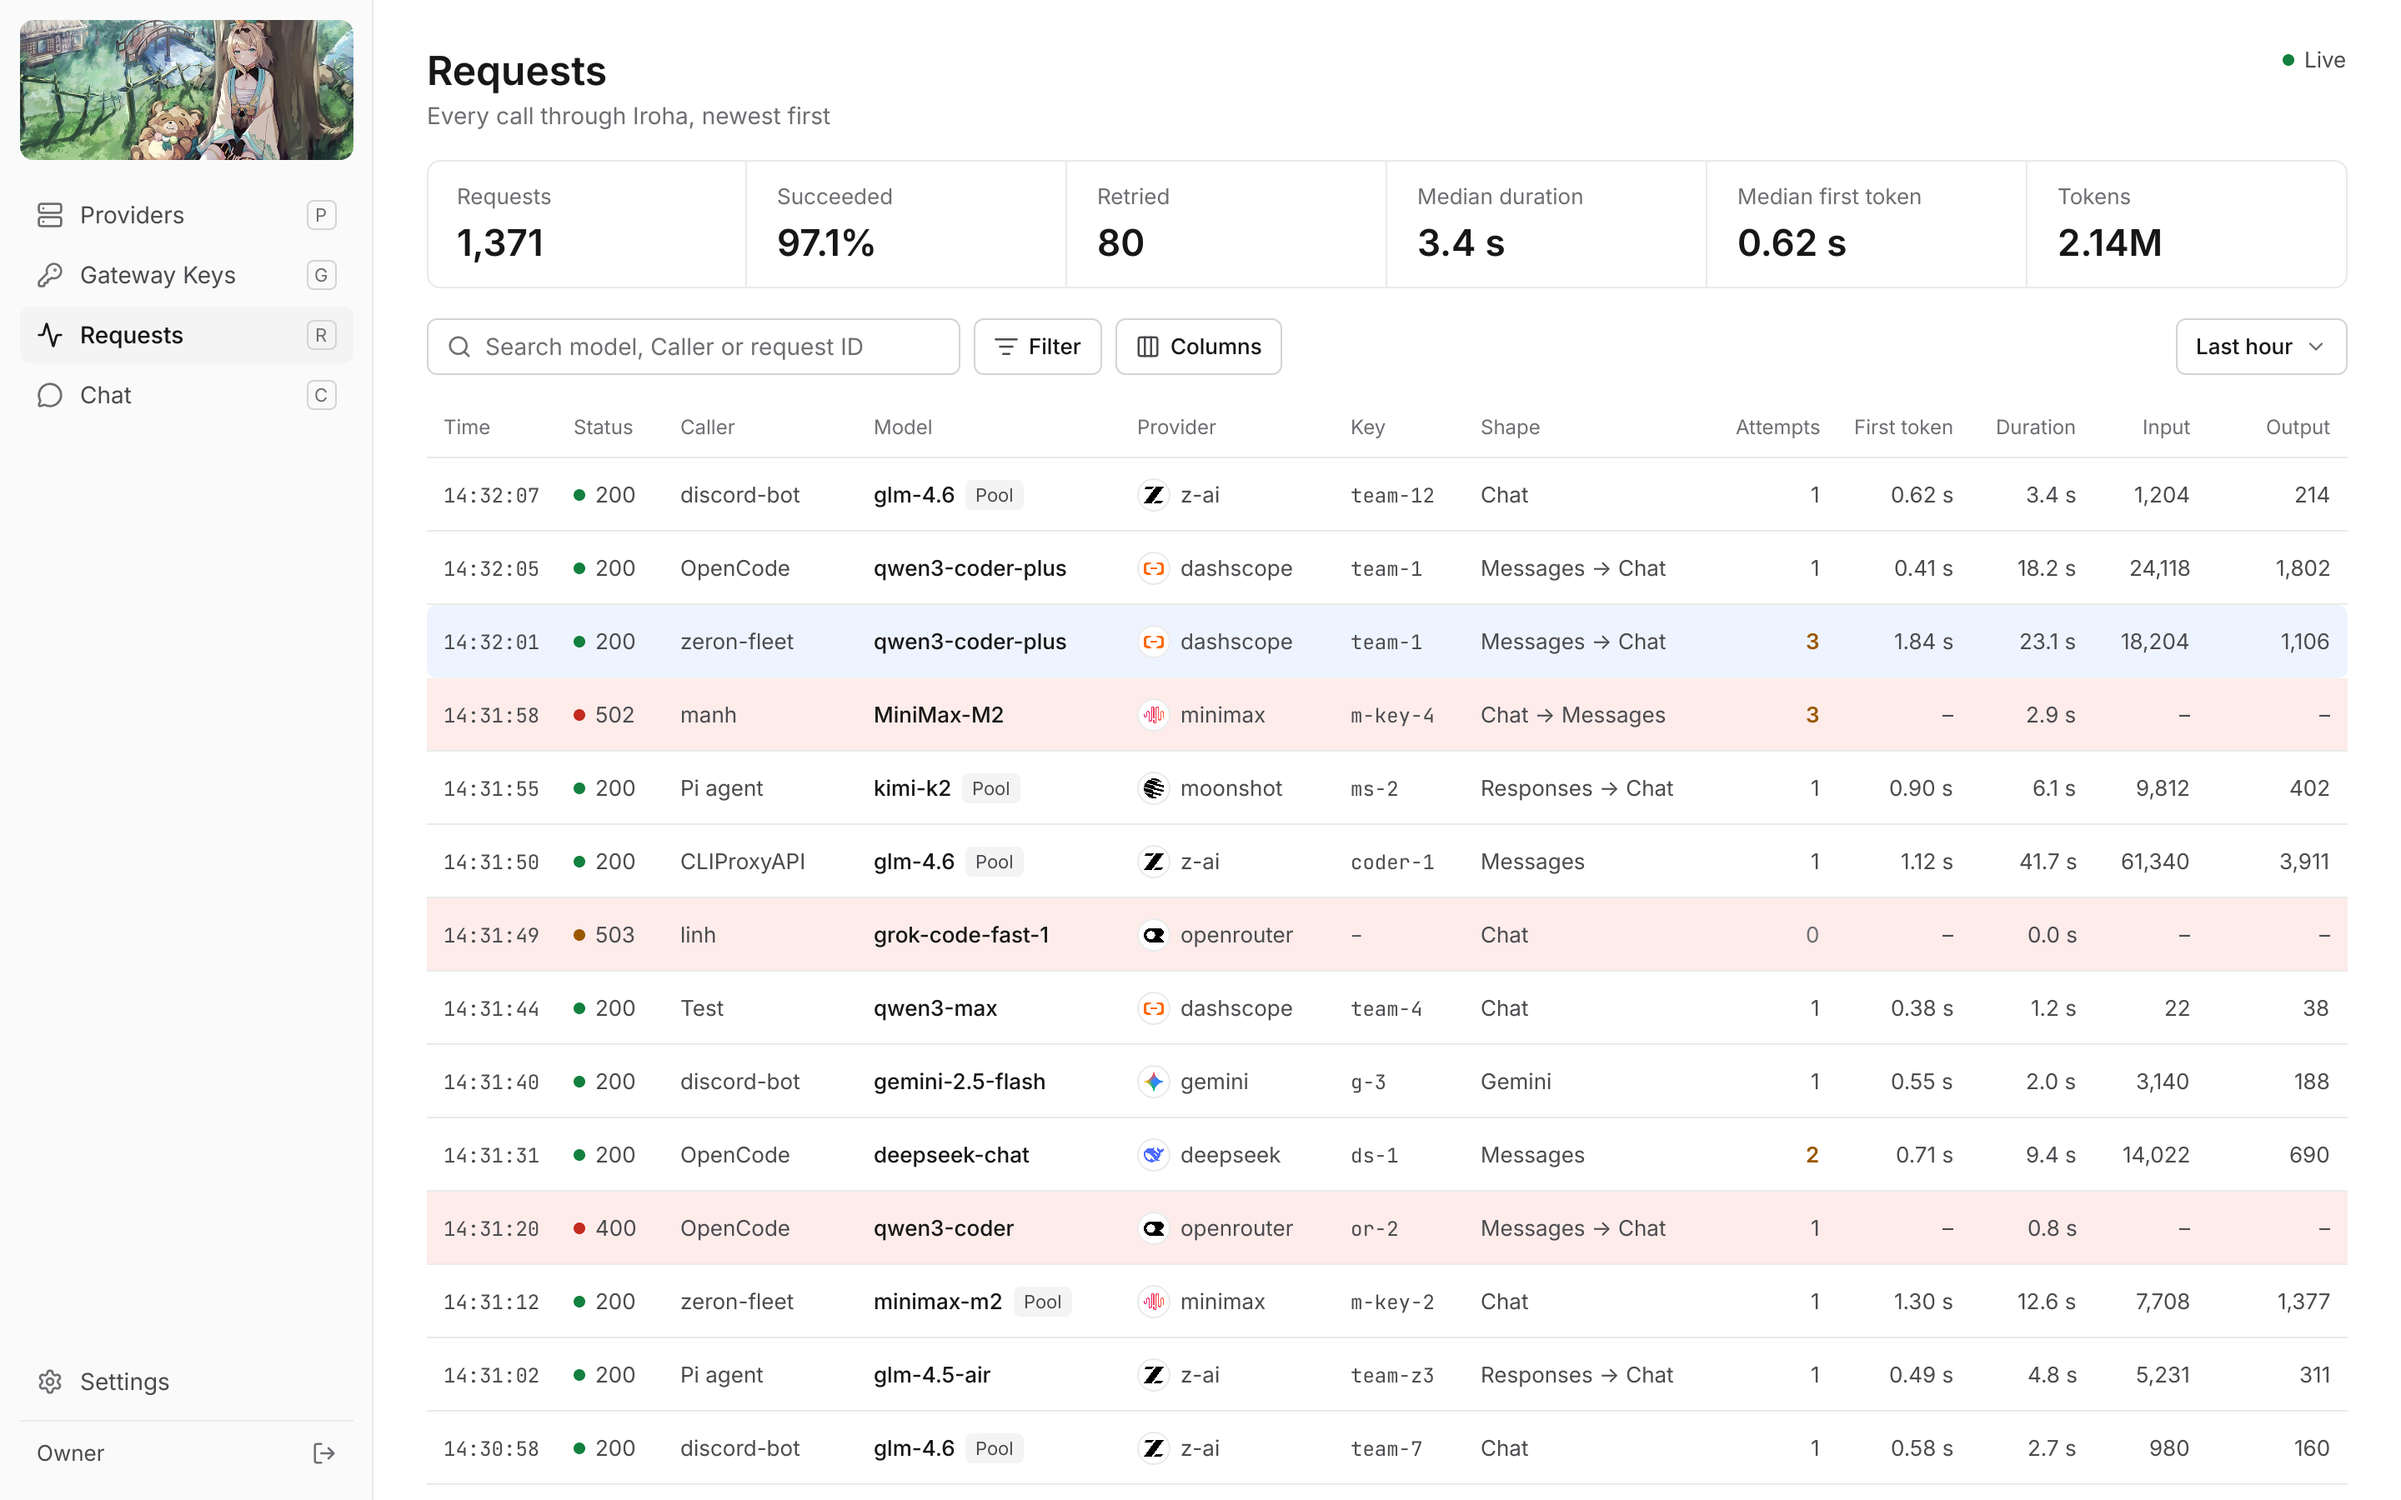
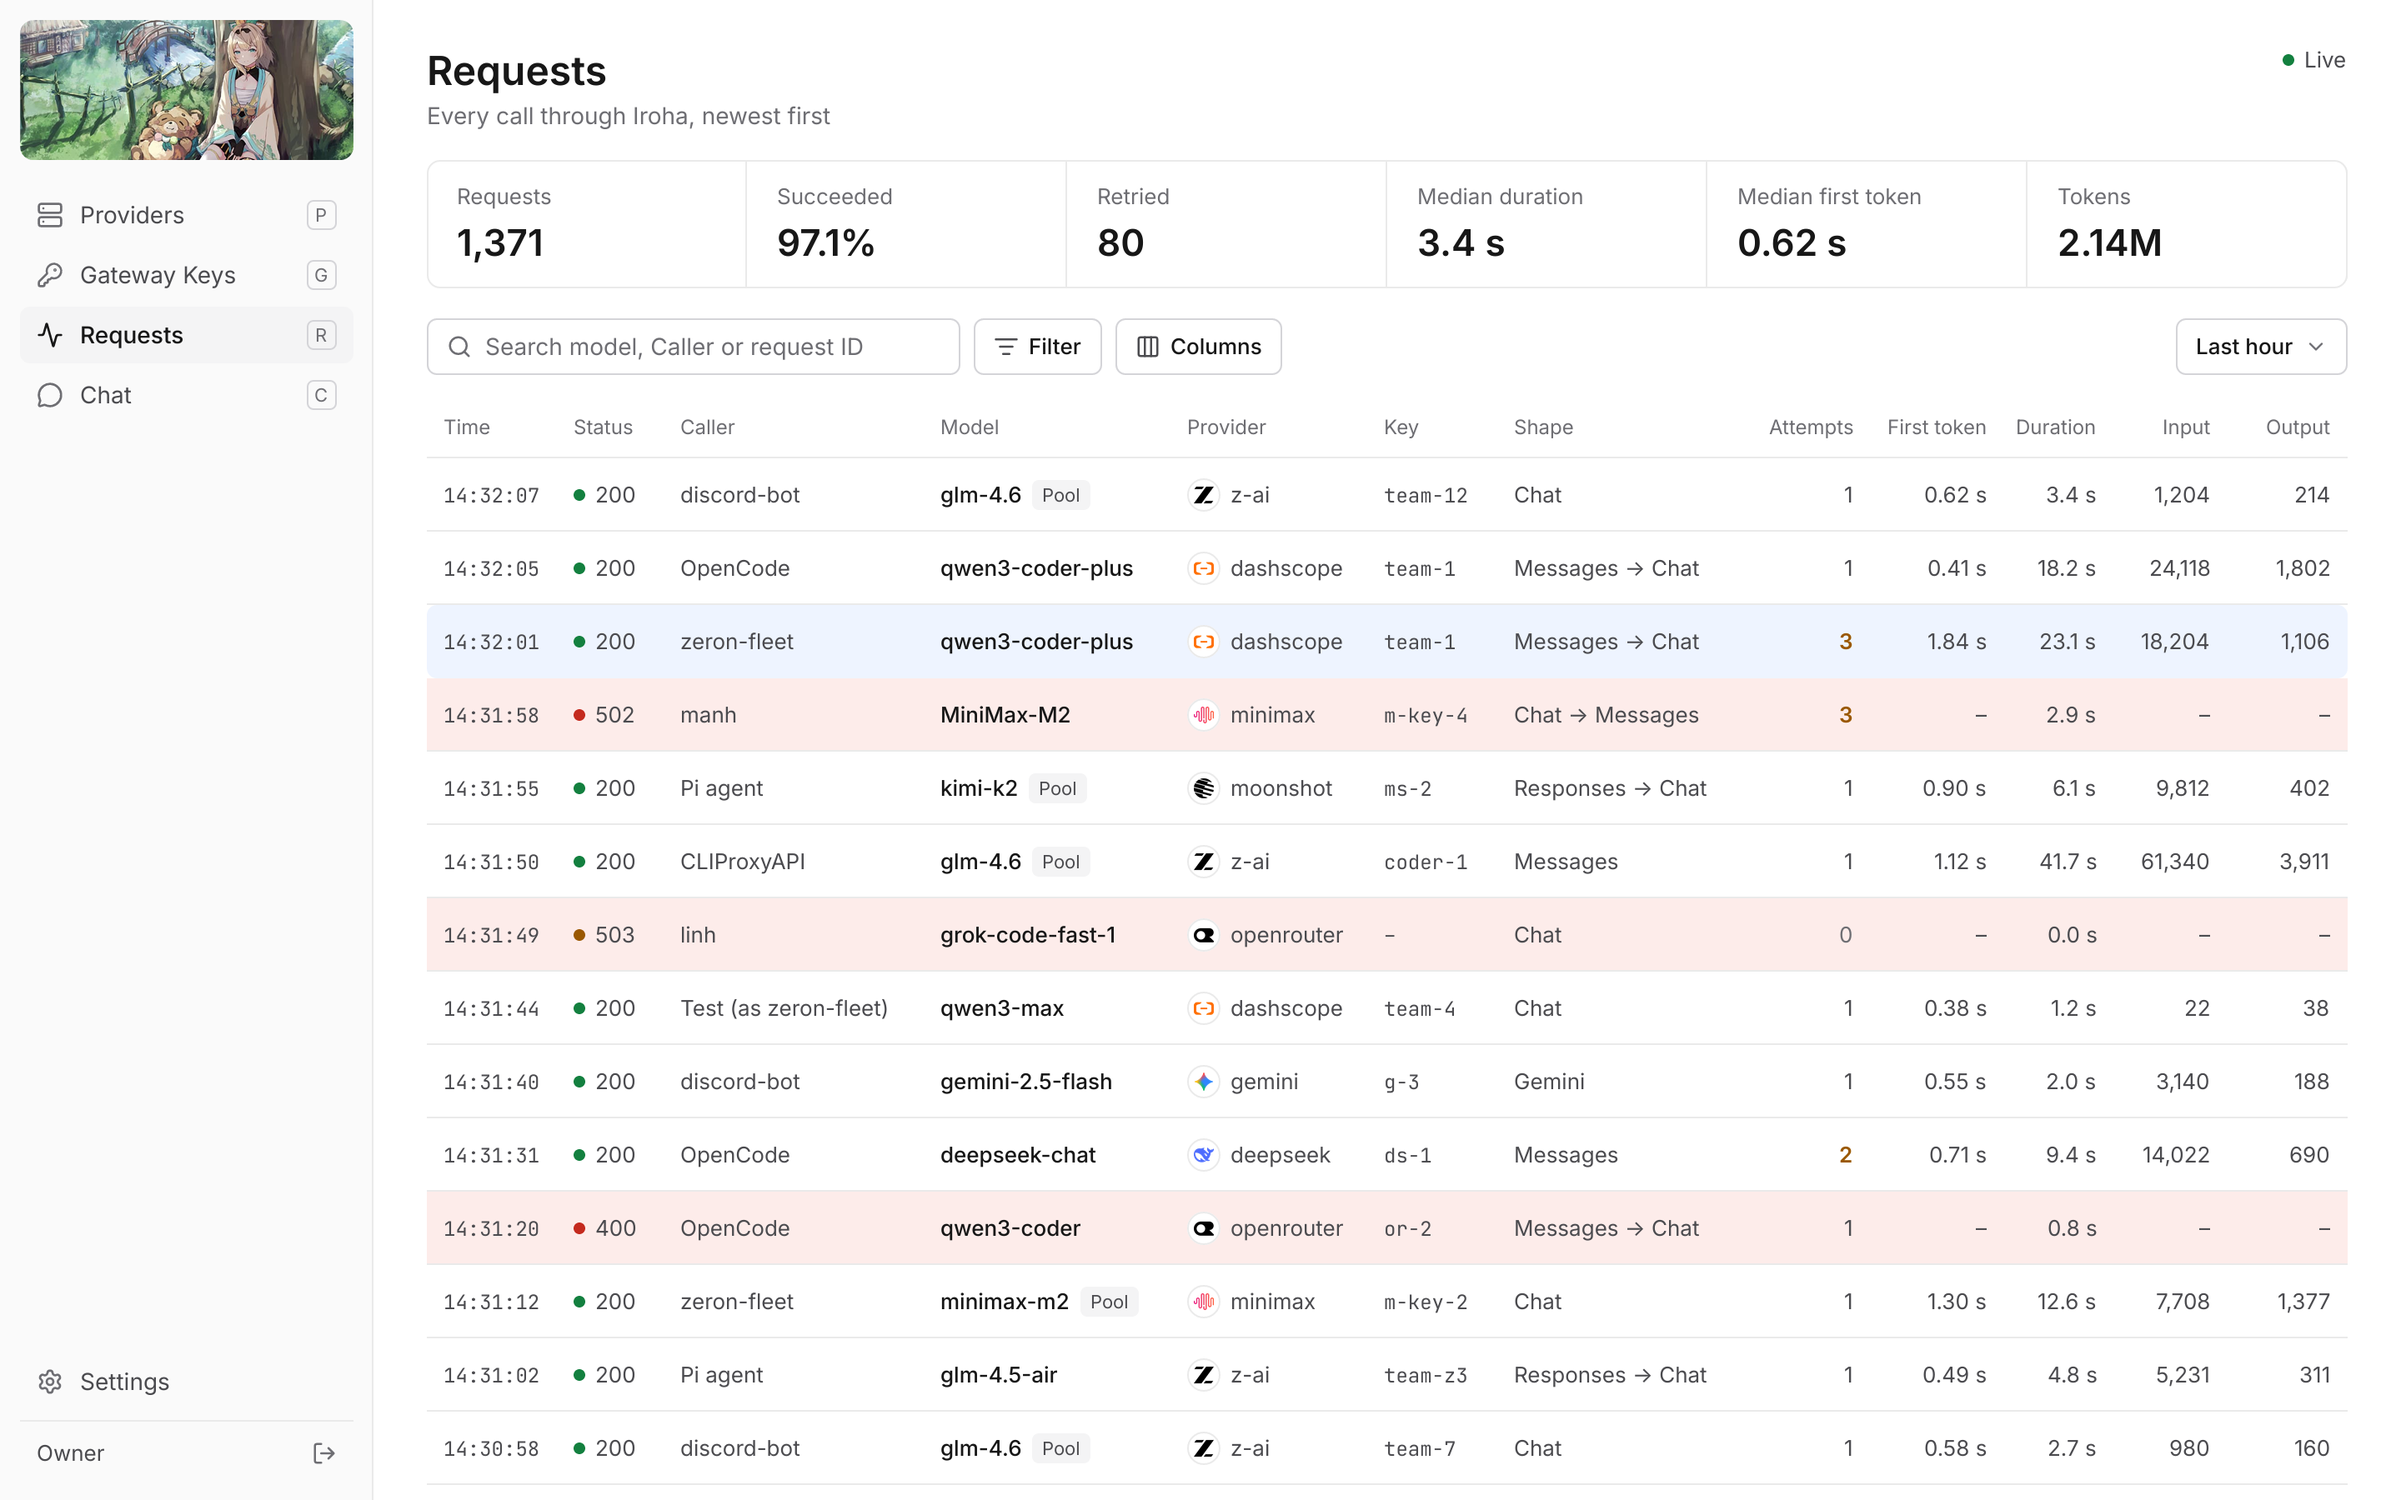
v2 design: dark mode, states, captured tab, model list, settings, phone (C20-C33)

diff --git a/.scratch/v2-gateway/design/v2-clean/README.md b/.scratch/v2-gateway/design/v2-clean/README.md
@@ -23,7 +23,19 @@ There is no brand or status row; the Owner asked to remove it.
 
 - **Providers** show their brand logo in a round tile, as in v1's `ProviderIcon`, resolved through the backend from the Logo Domain.
 - **Model Pools** show the model family's logo in a rounded-square tile, so a Pool never looks like a Provider. For example glm-4.6 uses Zhipu and kimi-k2 uses Kimi.
+- Where the logo comes from (approved by the Owner):
+  - A Provider's logo comes from its Logo domain, which you can edit in Provider Settings.
+  - A Pool's maker is guessed from the model name, and you can edit it on the Pool.
+- If no logo is found, the tile shows the first letter of the name, still round for Providers and a rounded square for Pools. C25 and C30 show it with my-vllm and house-mix.
 - The mockups use LobeHub's icon set (`@lobehub/icons-static-png`) as stand-ins.
+
+## Test traffic
+
+A chat sent "as" a Gateway Key uses that key's access but is recorded with the Caller `Test (as <name>)`. It never counts as that key's traffic. The label shows up in three places:
+
+- The Caller column in Requests (C03, C04, C21, C32).
+- The Caller filter (C25, under "No results").
+- The chat's "Sending as" bar, with "Shows in Requests as Test (as zeron-fleet)" under it (C17, C33).
 
 ## Screens
 
@@ -44,9 +56,61 @@ There is no brand or status row; the Owner asked to remove it.
 | `C14-provider-settings.png` | Provider → Settings: rows in cards (General: Name, Logo, Enabled; Provider route; Danger zone) |
 | `C15-chat-from-provider-test.png` | The shared chat sheet, opened by Test on dashscope: tool call, collapsible Details per reply, streaming |
 | `C16-chat-model-picker.png` | The composer's model picker: model, then Provider, Upstream Key, Endpoint, Shape, Send as, Reasoning, tool-call check |
-| `C17-chat-as-gateway-key.png` | Chat opened from a Gateway Key: "Sending as zeron-fleet", only that key's models can be picked, message prefilled |
+| `C17-chat-as-gateway-key.png` | Chat opened from a Gateway Key: "Sending as zeron-fleet", shown in Requests as Test (as zeron-fleet), only that key's models can be picked |
 | `C18-request-route.png` | A Request's Route view: the path it took as a chain of cards on a canvas, with the selected Attempt's details on the right |
-| `C19-model-pool-route.png` | Model Pool glm-4.6, Route tab: where a Request would go right now, with the selected member's keys on the right |
+| `C19-model-pool-route.png` | Model Pool glm-4.6, Route tab: where a Request would go right now, with the selected member's keys on the right. Backed by a real API |
+| `C20-dark-provider-keys.png` | Dark: Provider → Keys, 3 selected |
+| `C21-dark-requests-detail.png` | Dark: Requests with the drawer open |
+| `C22-dark-request-route.png` | Dark: a Request's Route view |
+| `C23-dark-chat-panel.png` | Dark: the chat sheet over Provider → Keys |
+| `C24-dark-new-gateway-key.png` | Dark: New Gateway Key |
+| `C25-states.png` | States board: loading, empty, no results, error, confirm delete, confirm revoke, toasts with Undo, logo fallback |
+| `C26-request-captured.png` | Request drawer, Captured tab: Caller sent / Sent upstream / Response, each message in order, Copy as cURL, Replay in Chat |
+| `C27-chat-model-list.png` | The composer's full model list (from the picker's top row): search, All / Model Pools / Used recently, grouped by Pool and Provider, keyboard hints |
+| `C28-settings-admin-tokens.png` | Settings → Admin Tokens: name, token, created, last used, expires. Revoke from the ⋯ menu |
+| `C29-settings-audit-entries.png` | Settings → Audit Entries: grouped by day, who, what, target, Revert. One open to show before and after |
+| `C30-phone-providers.png` | Phone: Providers and Model Pools. The Iroha avatar top right opens Settings |
+| `C31-phone-provider-keys.png` | Phone: Provider → Keys, two lines per key |
+| `C32-phone-requests.png` | Phone: Requests, two lines per Request, failed rows tinted |
+| `C33-phone-chat.png` | Phone: chat sent as a Gateway Key |
+
+## Dark mode
+
+- The same screens and the same colour tokens, with a dark value for each, so nothing is drawn twice.
+- The page is near-black (#0E0E10), with the sidebar and canvas one step lighter.
+- Status colours are lighter versions of the light ones, and their tinted backgrounds are darker.
+- The primary button turns light, so it still stands out.
+- Logos use LobeHub's dark set, so black marks like z-ai and openrouter turn white.
+
+## States (C25)
+
+- **Loading:** grey bars in the shape of the rows, with no spinner.
+- **Empty:** one sentence and the one action that fills the page.
+- **No results:** the filters stay on screen as chips, with Clear filters underneath.
+- **Error:** says what failed, keeps the page around it, and offers Try again. The failed call is shown in small mono text.
+- **Confirm:** only for actions that can't be undone, or that remove something.
+  - Delete names exactly what will go.
+  - Revoke asks you to type the key's name.
+  - Red appears only on the button that does it.
+- **Toasts:** bottom right, for 6 s. Every change that can be put back gets Undo, including a Revert from Audit Entries. Disable, enable and clearing Model Gaps don't ask first; they rely on Undo.
+
+## Settings (C28, C29)
+
+These are kept as plain as the other pages: a title, two underline tabs and a table. There are no cards and no extra sections.
+
+- **Admin Tokens:**
+  - One line explains what a token can do, next to the New Admin Token button.
+  - A token not used for a month shows its Last used in amber.
+- **Audit Entries:**
+  - Each row has one fact per column: time, who (the Owner or an Admin Token), what changed, and on what.
+  - Opening a row shows before and after.
+  - Revert sits on the row. Changes that can't be undone, like a revoke, say "Can't be reverted" instead.
+
+## Phone (C30–C33)
+
+- The sidebar becomes a bottom tab bar: Providers, Gateway Keys, Requests and Chat. Settings sits behind the Iroha avatar at the top of Providers.
+- Tables become two-line rows: the main facts on the first line, the secondary ones under them. There are still no dot-chained facts.
+- On a phone, Chat is a full page and not a sheet. It has the same history button, model chip and "Sending as" bar.
 
 ## Route views
 
@@ -92,15 +156,10 @@ Research notes: only Cloudflare AI Gateway draws a real node graph (its routes a
 - One chat at a time, with no tabs. Each Test starts a new chat; earlier chats are in the history dropdown in the sheet header. The expand button turns the sheet into a full page.
 - Bulk Test on selected keys is a different thing: a quick check whose result shows on the rows, not a chat.
 
-## Still to do
+## How the images were made
 
-- Dark mode.
-- Phone layouts.
-- The states board: loading, empty, error, confirm and toasts.
-- The Captured view for a Request.
-- The model list that opens from the top row of the composer's picker.
-- Settings: Admin Tokens and Audit Entries.
+The design tool stopped drawing images partway through this work. It draws nothing at all for an image, not even its grey placeholder, and restarting Zeron isn't possible from the design side. So in C03, C04, C17 and C18–C33, the banner, logos and avatar were pasted onto the exports afterwards, at the same places and sizes. The layout is unaffected, since only the pictures inside the tiles were added.
 
-The design tool stopped loading images partway through, so in C04, C18 and C19 the banner and logos were pasted onto the exports afterwards, in the same places and sizes.
+The States board (C25) is exported at 1.5× instead of 2×, because at 2× it's too large for the exporter.
 
 The Login art is the 728×546 banner scaled up, so it looks soft at full size. A larger copy of the art would fix that.
